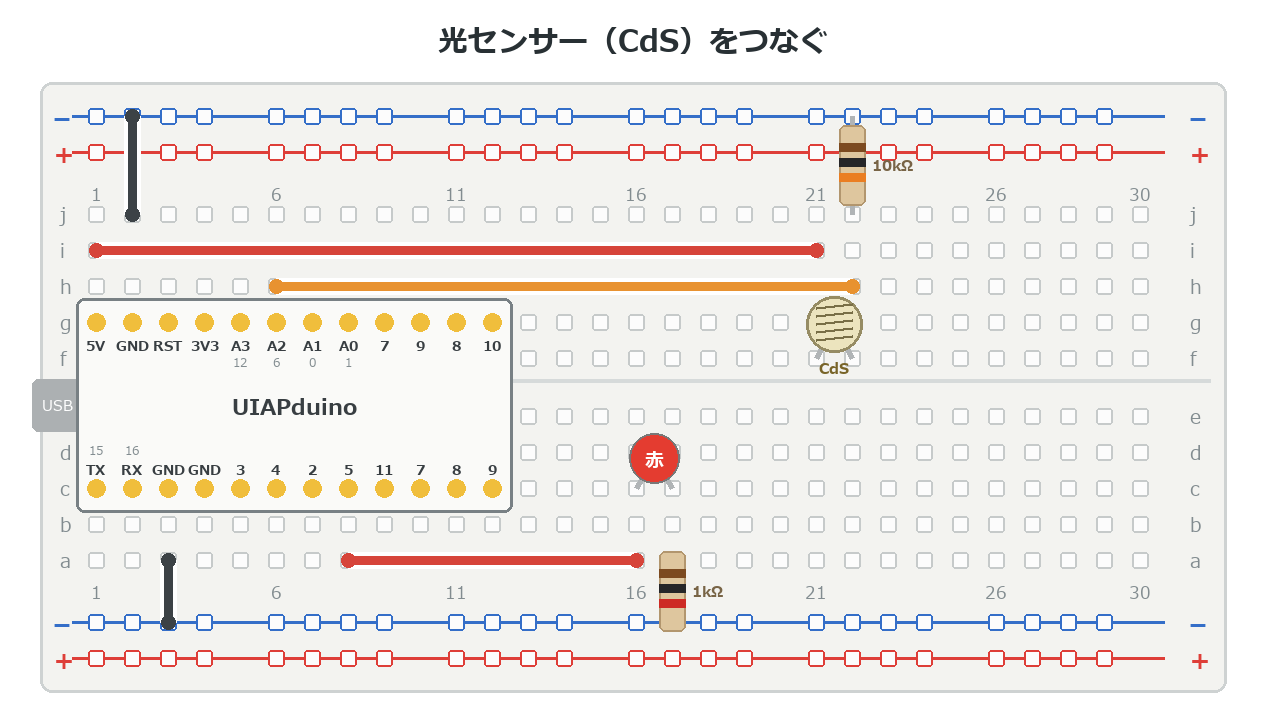
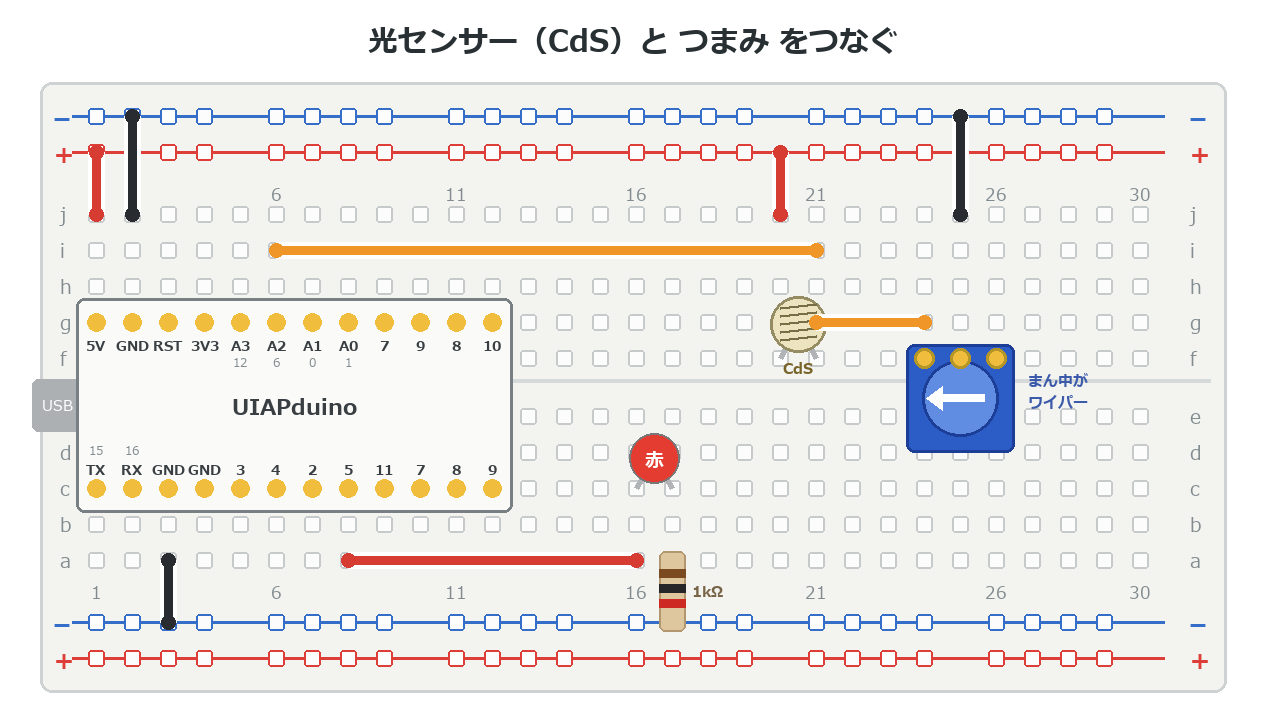
e1 を「つまみでさかいめを決める」形に作りかえた
実機のつまずきを受けての作りかえ。章の途中で配線を組みかえずに
すむことを第一にした。

① 固定の 10kΩ を 10kΩ の可変抵抗に置きかえた
   ＋ ── CdS ── A2 ── つまみ ── −。まん中と片はしの2本だけ使う。
   いっぱいに回しきれば 10kΩ で もとの回路と同じ。少しもどせば
   室内でちょうど さかいめになる。配線は1回で終わる。

② 明るさ → 点滅の速さ に変えた
   analogWrite(値/4) は 205→37 と5.5倍あるが、人の目は明るさを
   対数的にしか感じないので差が分かりにくい。点滅の速さなら
   すぐ気づける。

③ 数で読むページを足した（e1_kazu）
   analogRead/100 の回数だけ基板のLEDを点滅させる。明るいと8回、
   おおうと1回。verify/v12_analogshow の教材版で、14行に収めた。

④ しきい値はコードに 500 で固定し、つまみのほうで合わせる
   数字を探させると部屋の明るさで変わる。「明るいまま、ぎりぎり
   消えるところまで回す」ほうが体でわかる。

図は tools/fig_bb_cds.py。長い線は i行、レールへの立ち上げは j行
からにすると、立ち上げが横の線をまたがないので交差が出ない。

diff --git a/docs/e1_light/index.html b/docs/e1_light/index.html
@@ -65,51 +65,85 @@
 
 ---
 
-# 抵抗と組にして使う
+# つまみと組にして使う
 
 :::
 
-CdS だけでは電圧にならないので、**もう1つ抵抗と組にする**よ。
+CdS だけでは電圧にならない。**10kΩ のつまみ**と組にするよ。
 
-1. **5V** ── CdS ── **A2** ── 10kΩ ── **GND** の順につなぐ
-2. まん中（CdS と 10kΩ のあいだ）が **A2**
+1. **5V** ── CdS ── **A2** ── つまみ ── **GND**
+2. まん中（CdS と つまみ のあいだ）が **A2**
+3. つまみは**まん中の足と、片はしの足**の2本だけ使う
 
-これで、明るさが**電圧の高さ**に変わる。b4 のつまみと同じ形だね。
-
-> ⚠ 10kΩ は「茶・黒・だいだい」。1kΩ（茶・黒・赤）とまちがえないように。
+> あとで**さかいめを決める**のに、このつまみを回すよ。
 
 :::
 
-![5V ── CdS ── A2 ── 10kΩ ── GND の順につなぐ](image/index/bb_cds.png)
+![5V ── CdS ── A2 ── つまみ ── GND。配線はこれで最後まで変えない](image/index/bb_cds.png)
 
 ---
 
-# まず値を見てみよう
+# 明るさで点滅が変わる
 
 :::
 
-しきい値を決める前に、**どのくらいの値になるか**を確かめよう。
+明るさによって、点滅の**速さ**が変わるよ。
 
-1. 右のプログラムを書きこむ（b4 と同じ）
-2. 手を**カップのように丸めて**かぶせる
+1. つまみを**いっぱいに回しきる**（抵抗がいちばん大きい側）
+2. 右のプログラムを書きこむ
+3. 手を**カップのように丸めて**かぶせる
 
 > ⚠ 指を1本のせるだけでは**ほとんど変わらない**。
-> すきまをなくすと、はっきり暗くなるよ。
+> すきまをなくそう。
 
 :::
 
-```cpp `e1_check` まず明るさを見る
+```cpp `e1_check` 明るさで点滅が変わる
 const int CDS = A2;
 const int LED = 5;
 
 void setup() {
   pinMode(LED, OUTPUT);
-  analogWriteResolution(8);
 }
 
 void loop() {
-  analogWrite(LED, analogRead(CDS) / 4);
-  delay(10);
+  int t = analogRead(CDS) / 4;   // 明るいほど長い
+  digitalWrite(LED, HIGH); delay(t);
+  digitalWrite(LED, LOW);  delay(t);
+}
+```
+
+---
+
+# 数で読んでみよう
+
+:::
+
+こんどは値を**数字**として読んでみよう。
+
+1. 右のプログラムを書きこむ
+2. **基板のオレンジLED**が点滅する回数を数える
+3. 回数 × 100 が、だいたいの値
+
+> 明るいと **8回**、おおうと **1回** くらいになるよ。
+
+:::
+
+```cpp `e1_kazu` 値を数で読む
+const int CDS = A2;
+const int LED = 2;    // 基板のオレンジLED
+
+void setup() {
+  pinMode(LED, OUTPUT);
+}
+
+void loop() {
+  int n = analogRead(CDS) / 100;
+  for (int i = 0; i < n; i++) {
+    digitalWrite(LED, HIGH); delay(200);
+    digitalWrite(LED, LOW);  delay(300);
+  }
+  delay(2000);        // ひと休み
 }
 ```
 
@@ -119,14 +153,14 @@ void loop() {
 
 :::
 
-しきい値をこえたら光る、というプログラムに変えるよ。
+さかいめの数は部屋ごとに変わる。**つまみで合わせよう**。
 
 1. 右のプログラムを書きこむ
-2. 手でおおうと、LEDが光る
-3. `500` を変えて、さかいめをさがす
+2. 明るいまま、LEDが**ぎりぎり消える**ところまで回す
+3. 手でおおうと、**パッと光る**
 
-> ⚠ ちょうどいい数は**部屋の明るさで変わる**。
-> 明るいときの値と、おおったときの値の**まん中**にしよう。
+> `500` は動かさない。**つまみのほうで合わせる**んだ。
+> 部屋の明るさが変わったら、また回し直せばいい。
 
 :::
 

diff --git a/docs/x1_parts/index.html b/docs/x1_parts/index.html
@@ -77,7 +77,7 @@
 
 - **タクトスイッチ** … 押しボタン
 - **可変抵抗 10kΩ** … つまみ
-- **CdS（光センサー）暗抵抗 1MΩ** ＋ **抵抗 10kΩ**
+- **CdS（光センサー）暗抵抗 1MΩ** … 組にする抵抗は**つまみで代用**
 - **温度センサー MCP9701-E/TO** … ⚠ **9700 とまちがえない**
 - **超音波センサー HC-SR04** … グループで共用してもOK
 
@@ -134,7 +134,7 @@
 # 配線図の見方
 このワークショップ資料では、こんなふうに書くよ。
 
-- **5V ── CdS ── A2 ── 10kΩ ── GND**
+- **5V ── CdS ── A2 ── つまみ ── GND**
 - 左から順に、**線でつなぐ順番**を表している
 - `──` の間にあるものが、そこに入る部品
 

diff --git a/tools/fig_bb_cds.py b/tools/fig_bb_cds.py
@@ -1,0 +1,40 @@
+# -*- coding: utf-8 -*-
+"""e1 光センサーの配線図。
+
+10kΩ の固定抵抗のかわりに **10kΩ の可変抵抗**を入れてある。
+こうすると、章の途中で配線を組みかえずに
+
+  ・いっぱいに回す（＝10kΩ）… 明るさで点滅の速さが変わるのを見る
+  ・少し もどす            … 室内でぎりぎり消えるさかいめを作る
+
+の両方ができる。つまみは **まん中の足と、片はしの足**の2本だけ使う。
+長い線は i行、レールへの立ち上げは j行から。こうすると交差しない。
+"""
+import sys
+sys.path.insert(0, "tools")
+sys.stdout.reconfigure(encoding="utf-8")
+from bb import *
+
+RED, ORANGE, BLACK = (214, 60, 50), (240, 150, 40), (40, 44, 48)
+
+im, d = new("光センサー（CdS）と つまみ をつなぐ")
+board(d)
+mcu(d)
+
+wire(d, (1, "j"), (1, "+t"), RED)          # ボードの5V  → ＋レール
+wire(d, (2, "j"), (2, "-t"), BLACK)        # ボードのGND → −レール
+
+# ＋レール ── CdS ── A2 ── つまみ ── −レール
+cds(d, 20, "f")                            # 足は 20列・21列
+wire(d, (20, "j"), (20, "+t"), RED)        # CdS の上がわ → ＋レール
+wire(d, (6, "i"), (21, "i"), ORANGE)       # まん中（21列）→ A2
+wire(d, (21, "g"), (24, "g"), ORANGE)      # まん中 → つまみの片はし
+vr(d, 24, "f")                             # 足は 24・25・26列（まん中が25）
+wire(d, (25, "j"), (25, "-t"), BLACK)      # まん中の足 → −レール
+
+# LED（基本編と同じ 16・17列）
+wire(d, (8, "a"), (16, "a"), RED)          # 5番 → LED
+led(d, 16, "c", note=False)
+resistor_v(d, 17, "a", "-b")
+wire(d, (3, "a"), (3, "-b"), BLACK)        # ボードのGND → 下の −レール
+save(im, "e1_light", "bb_cds.png")

diff --git a/content/e1_light/index.md b/content/e1_light/index.md
@@ -51,51 +51,85 @@ wip: 写真まち
 
 ---
 
-# 抵抗と組にして使う
+# つまみと組にして使う
 
 :::
 
-CdS だけでは電圧にならないので、**もう1つ抵抗と組にする**よ。
+CdS だけでは電圧にならない。**10kΩ のつまみ**と組にするよ。
 
-1. **5V** ── CdS ── **A2** ── 10kΩ ── **GND** の順につなぐ
-2. まん中（CdS と 10kΩ のあいだ）が **A2**
+1. **5V** ── CdS ── **A2** ── つまみ ── **GND**
+2. まん中（CdS と つまみ のあいだ）が **A2**
+3. つまみは**まん中の足と、片はしの足**の2本だけ使う
 
-これで、明るさが**電圧の高さ**に変わる。b4 のつまみと同じ形だね。
-
-> ⚠ 10kΩ は「茶・黒・だいだい」。1kΩ（茶・黒・赤）とまちがえないように。
+> あとで**さかいめを決める**のに、このつまみを回すよ。
 
 :::
 
-![5V ── CdS ── A2 ── 10kΩ ── GND の順につなぐ](image/index/bb_cds.png)
+![5V ── CdS ── A2 ── つまみ ── GND。配線はこれで最後まで変えない](image/index/bb_cds.png)
 
 ---
 
-# まず値を見てみよう
+# 明るさで点滅が変わる
 
 :::
 
-しきい値を決める前に、**どのくらいの値になるか**を確かめよう。
+明るさによって、点滅の**速さ**が変わるよ。
 
-1. 右のプログラムを書きこむ（b4 と同じ）
-2. 手を**カップのように丸めて**かぶせる
+1. つまみを**いっぱいに回しきる**（抵抗がいちばん大きい側）
+2. 右のプログラムを書きこむ
+3. 手を**カップのように丸めて**かぶせる
 
 > ⚠ 指を1本のせるだけでは**ほとんど変わらない**。
-> すきまをなくすと、はっきり暗くなるよ。
+> すきまをなくそう。
 
 :::
 
-```cpp `e1_check` まず明るさを見る
+```cpp `e1_check` 明るさで点滅が変わる
 const int CDS = A2;
 const int LED = 5;
 
 void setup() {
   pinMode(LED, OUTPUT);
-  analogWriteResolution(8);
 }
 
 void loop() {
-  analogWrite(LED, analogRead(CDS) / 4);
-  delay(10);
+  int t = analogRead(CDS) / 4;   // 明るいほど長い
+  digitalWrite(LED, HIGH); delay(t);
+  digitalWrite(LED, LOW);  delay(t);
+}
+```
+
+---
+
+# 数で読んでみよう
+
+:::
+
+こんどは値を**数字**として読んでみよう。
+
+1. 右のプログラムを書きこむ
+2. **基板のオレンジLED**が点滅する回数を数える
+3. 回数 × 100 が、だいたいの値
+
+> 明るいと **8回**、おおうと **1回** くらいになるよ。
+
+:::
+
+```cpp `e1_kazu` 値を数で読む
+const int CDS = A2;
+const int LED = 2;    // 基板のオレンジLED
+
+void setup() {
+  pinMode(LED, OUTPUT);
+}
+
+void loop() {
+  int n = analogRead(CDS) / 100;
+  for (int i = 0; i < n; i++) {
+    digitalWrite(LED, HIGH); delay(200);
+    digitalWrite(LED, LOW);  delay(300);
+  }
+  delay(2000);        // ひと休み
 }
 ```
 
@@ -105,14 +139,14 @@ void loop() {
 
 :::
 
-しきい値をこえたら光る、というプログラムに変えるよ。
+さかいめの数は部屋ごとに変わる。**つまみで合わせよう**。
 
 1. 右のプログラムを書きこむ
-2. 手でおおうと、LEDが光る
-3. `500` を変えて、さかいめをさがす
+2. 明るいまま、LEDが**ぎりぎり消える**ところまで回す
+3. 手でおおうと、**パッと光る**
 
-> ⚠ ちょうどいい数は**部屋の明るさで変わる**。
-> 明るいときの値と、おおったときの値の**まん中**にしよう。
+> `500` は動かさない。**つまみのほうで合わせる**んだ。
+> 部屋の明るさが変わったら、また回し直せばいい。
 
 :::
 

diff --git a/CURRICULUM.md b/CURRICULUM.md
@@ -69,7 +69,7 @@
 
 | id | 章タイトル | 学ぶこと | 使う部品 | 目安 |
 |---|---|---|---|---|
-| `e1_light` | 光センサーで暗くなったら光る | CdS＋分圧回路／`analogRead` としきい値／自動ライト | **CdS（暗抵抗1MΩ）**・10kΩ | 25分 |
+| `e1_light` | 光センサーで暗くなったら光る | CdS＋分圧回路／点滅の速さで値を見る／つまみでさかいめを決める | **CdS（暗抵抗1MΩ）**・可変抵抗10kΩ | 30分 |
 | `e2_temp` | 温度をはかろう | アナログ温度センサー／電圧→温度の計算／校正／しきい値で警告 | **MCP9701-E/TO**（⚠ 9700 と別物） | 30分 |
 | `e3_distance` | ものとの距離をはかろう | 超音波センサー／回数を数えて時間をはかる／時間から距離を求める | HC-SR04（グループ共用可） | 30分 |
 | `e4_servo` | サーボモーターを動かそう | 角度指定（0〜180°）／パルス幅で角度が決まる仕組み／電源の考え方 | SG90 | 30分 |
@@ -369,6 +369,32 @@ micro:bit（センサー内蔵）／Raspberry Pi（カメラ・画面）。
 伝えられるのが、Arduino を選んだことの回収になる。
 
 ---
+
+### e1 を「つまみでさかいめを決める」形に作りかえた（2026-09-23）
+
+実機のつまずきを受けての作りかえ。**ねらいは、章の途中で配線を組みかえないこと。**
+
+**① 固定の 10kΩ をやめ、そこに 10kΩ の可変抵抗を入れる**
+   `＋ ── CdS ── A2 ── つまみ ── −`。つまみは**まん中と片はしの2本**だけ使う。
+   - いっぱいに回しきる ＝ 10kΩ ＝ もとの回路と同じ → 値を見るページで使う
+   - 少しもどす ＝ 室内でちょうど さかいめになる → 自動ライトのページで使う
+   → **配線は1回で終わり**。ページごとに組みかえる必要がない。
+
+**② 明るさ → 点滅の速さ に変えた**
+   `analogWrite(値/4)` だと 205→37 で明るさ5.5倍あるが、
+   **人の目は明るさを対数的にしか感じない**ので差が分かりにくい。
+   `delay(値/4)` の点滅なら「速くなった」はすぐ気づける。
+
+**③ 数で読むページを足した**（`e1_kazu`）
+   `analogRead(CDS) / 100` の回数だけ基板のLEDを点滅させる。
+   明るいと8回・おおうと1回。`verify/v12_analogshow` の教材版（14行に収めた）。
+
+**④ しきい値はコードに固定（500）し、つまみのほうで合わせる**
+   数字を探させると部屋の明るさで変わってしまう。
+   「明るいまま、ぎりぎり消えるところまで回す」のほうが体でわかる。
+
+図は `tools/fig_bb_cds.py`。長い線は i行、レールへの立ち上げは j行からにすると
+立ち上げが横の線をまたがないので交差が出ない。
 
 ### e1 CdS の実測値と、しきい値を 300→500 に（2026-09-23）
 

diff --git a/content/x1_parts/index.md b/content/x1_parts/index.md
@@ -63,7 +63,7 @@ wip: 写真まち
 
 - **タクトスイッチ** … 押しボタン
 - **可変抵抗 10kΩ** … つまみ
-- **CdS（光センサー）暗抵抗 1MΩ** ＋ **抵抗 10kΩ**
+- **CdS（光センサー）暗抵抗 1MΩ** … 組にする抵抗は**つまみで代用**
 - **温度センサー MCP9701-E/TO** … ⚠ **9700 とまちがえない**
 - **超音波センサー HC-SR04** … グループで共用してもOK
 
@@ -120,7 +120,7 @@ wip: 写真まち
 # 配線図の見方
 このワークショップ資料では、こんなふうに書くよ。
 
-- **5V ── CdS ── A2 ── 10kΩ ── GND**
+- **5V ── CdS ── A2 ── つまみ ── GND**
 - 左から順に、**線でつなぐ順番**を表している
 - `──` の間にあるものが、そこに入る部品
 
